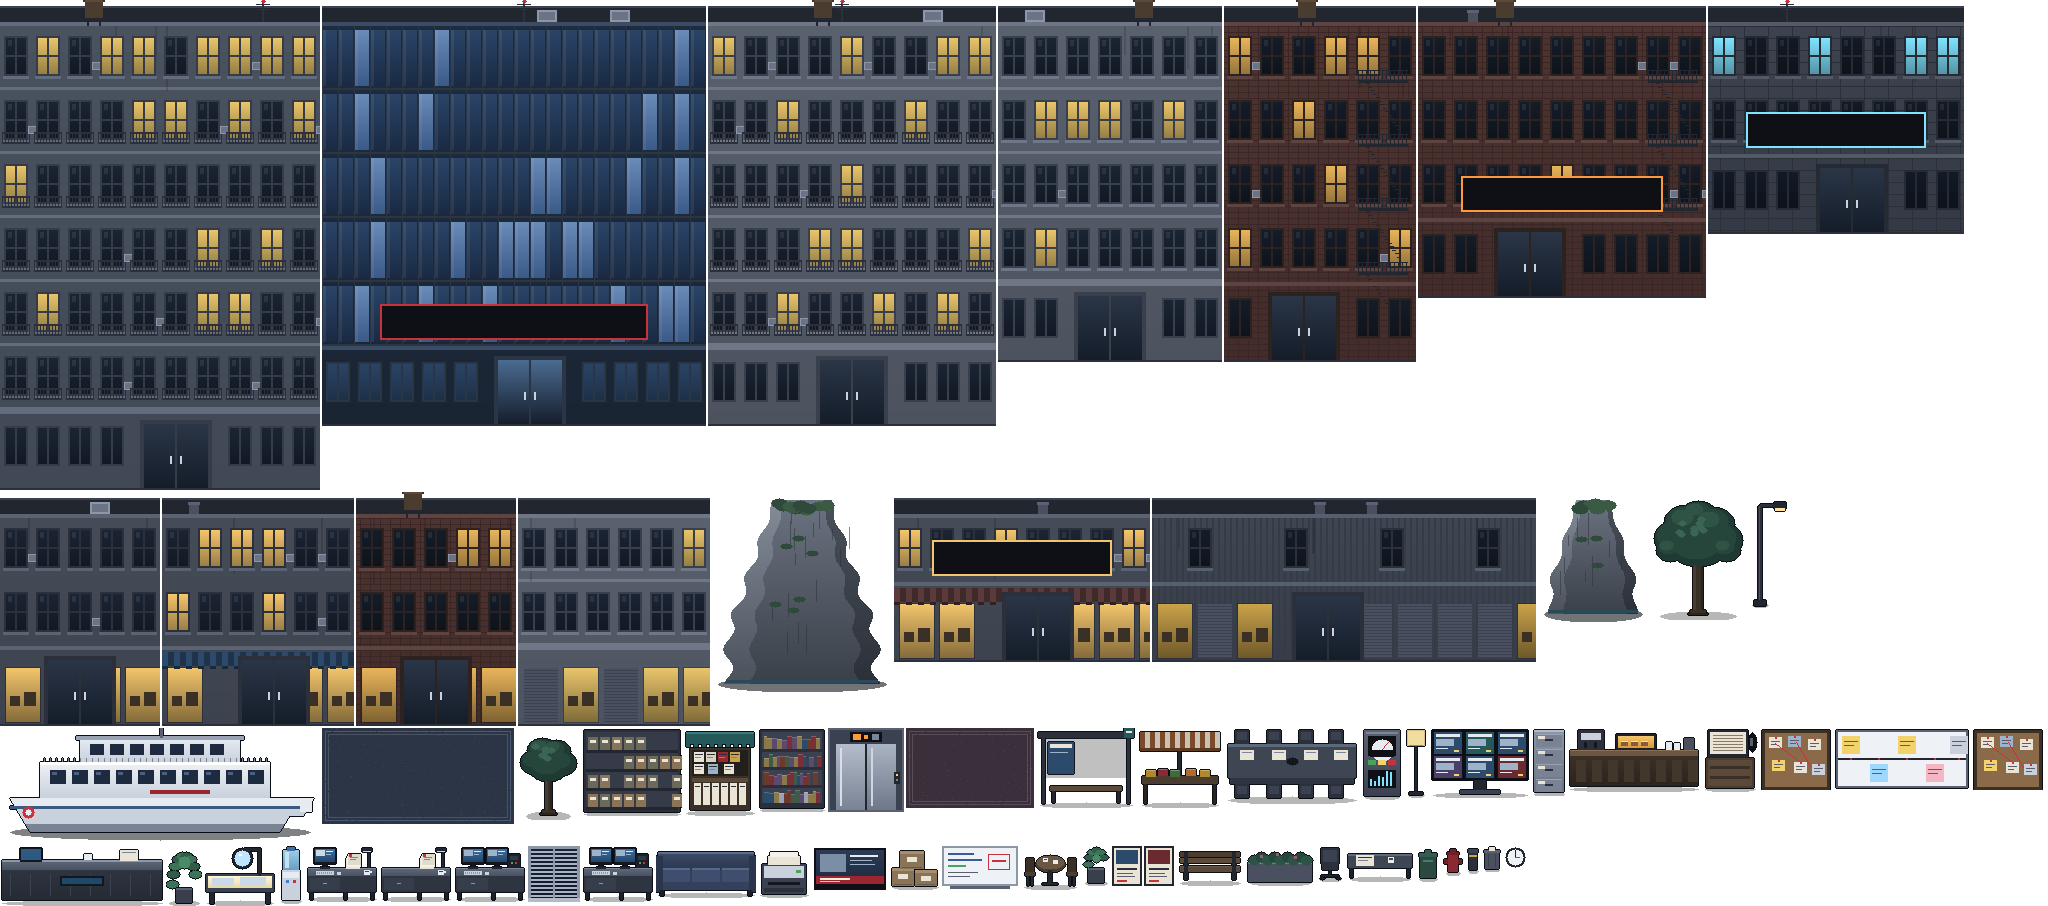
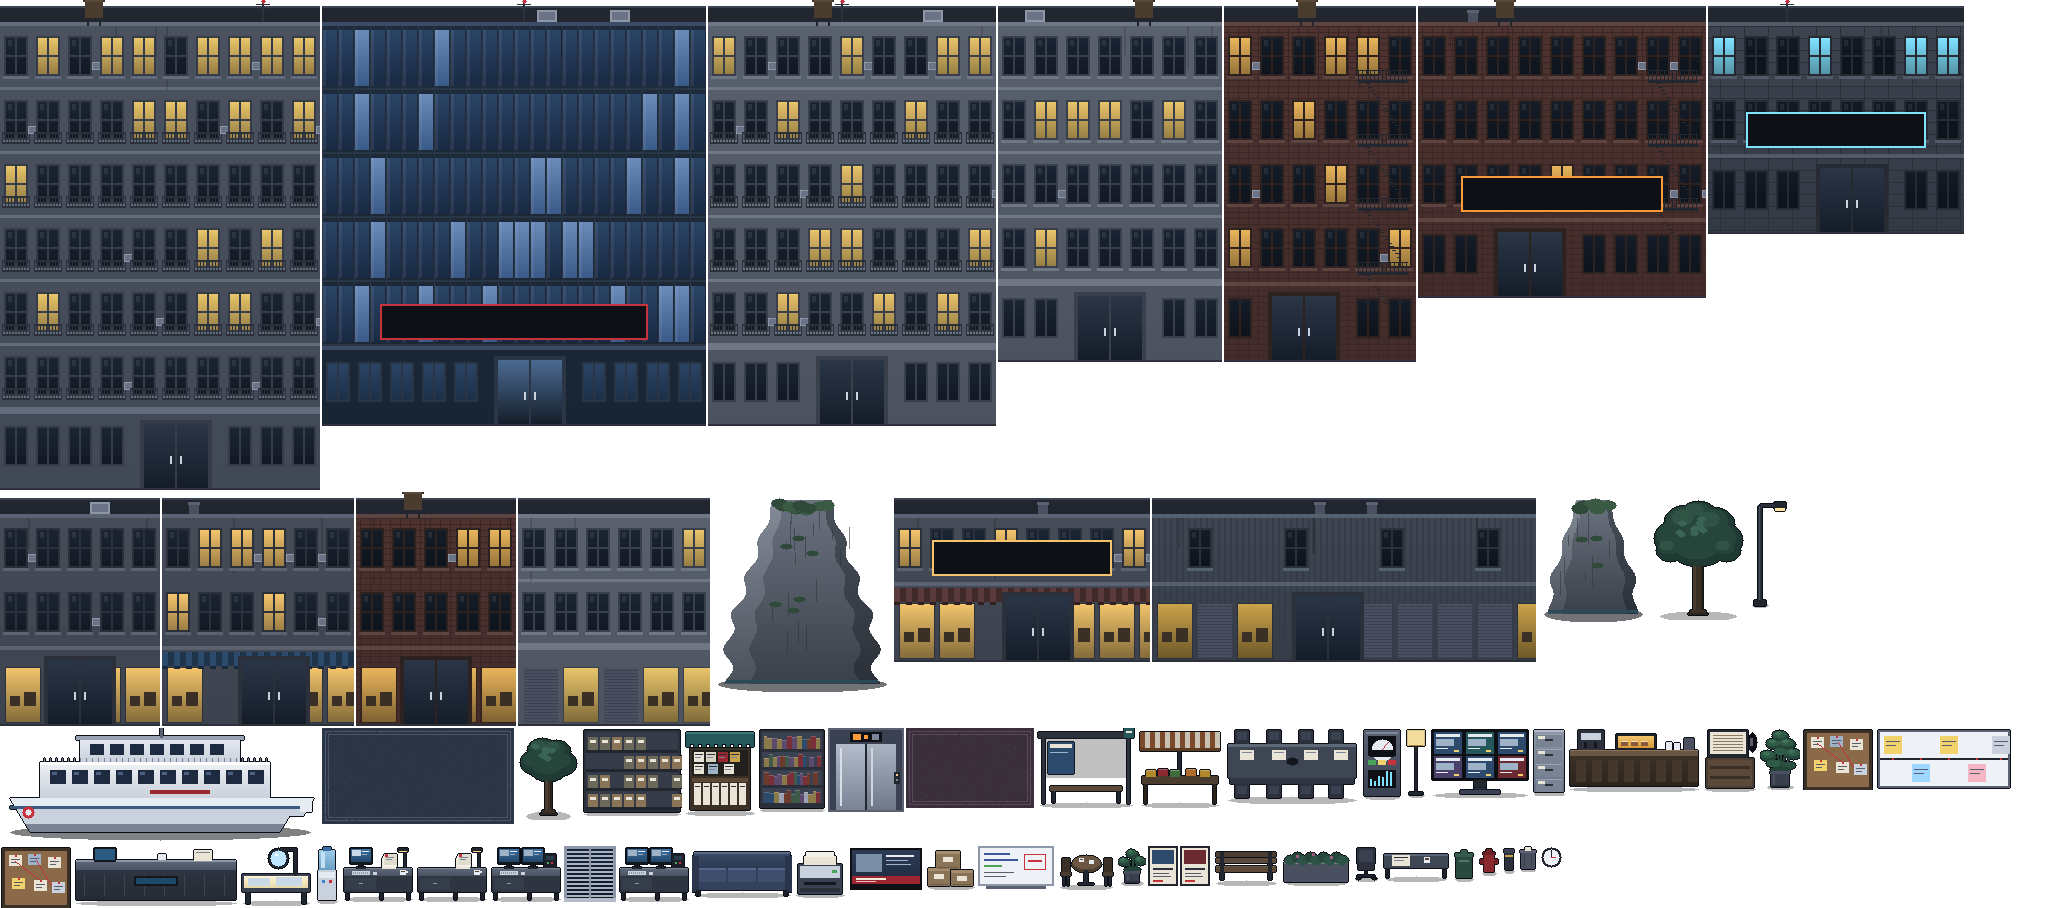
Replace points with skill badges; redraw potted plants
Each closed case (room) awards a skill badge with one line on what it teaches (rooms[].badge),
derived from the existing done flags so old saves get them. The HUD shows badges and cases closed
(n/6); the notebook and results screen show the badge shelf. Points, ranks and hint penalties are
gone. Potted plants now grow out of the pot with stems and dense leaves.

diff --git a/game/js/story.js b/game/js/story.js
@@ -2,7 +2,7 @@
 import { data, t, fill, questById, evidenceById, sceneById, npcById, sourceById, shortCite } from './data.js';
 import { state, questState, saveProgress, setFlag, hasFlag, addEvidence, isQuestDone } from './state.js';
 import * as dlg from './dialogue.js';
-import { matchField, checkCards, questPoints, isUnlocked, isPlayable, roomStatus, bossStatus, nextQuestIn } from './grading.js';
+import { matchField, checkCards, isUnlocked, isPlayable, roomStatus, bossStatus, nextQuestIn } from './grading.js';
 import { exhibitFor, frameGrid, singleFrame } from './exhibits.js';
 import { normalize, containsPhrase } from './text.js';
 import { sfx } from './audio.js';
@@ -674,12 +674,19 @@ Object.assign(STEP_RUNNERS, {
   }
 });
 
-/** Hoàn thành nhiệm vụ: điểm, thẻ evidence, kết luận nhỏ, lời kết phòng. */
+/** Trao huy hiệu kỹ năng của một hồ sơ (phòng) khi khép lại. */
+async function awardBadge(roomId) {
+  const b = data.quests.rooms.find(r => r.id === roomId)?.badge;
+  if (!b) return;
+  sfx('unlock');
+  onChange();
+  toast(t('dialog.badge', { name: b.name, learned: '' }));
+  await dlg.say('system', t('dialog.badge', b));
+}
+
+/** Hoàn thành nhiệm vụ: thẻ evidence, kết luận nhỏ, lời kết phòng, huy hiệu khi khép hồ sơ. */
 async function completeQuest(q, qs, npc) {
-  const points = questPoints(qs);
   qs.status = 'done';
-  qs.points = points;
-  state.progress.score += points;
   (q.evidenceCards || []).forEach(addEvidence);
   saveProgress();
   onChange();
@@ -691,7 +698,6 @@ async function completeQuest(q, qs, npc) {
     toast(t('dialog.newCard', { fact: ev.fact, title: ev.title }));
     await dlg.say('system', t('dialog.newCard', { fact: ev.fact, title: ev.title }));
   }
-  await dlg.say('system', t('dialog.points', { n: points }));
   world?.emote('hero', '♪');
   const room = q.room;
   if (state.progress.tracked === q.id) track(nextQuestIn(room)?.id || null, true);
@@ -699,6 +705,7 @@ async function completeQuest(q, qs, npc) {
     setFlag(`done_${room}`);
     saveProgress();
     if (sceneById(`${room.toLowerCase()}_done`)) await playScene(`${room.toLowerCase()}_done`);
+    await awardBadge(room);
   }
   // Xong mọi hồ sơ bắt buộc: Kẻ Dệt Chuyện xuất hiện, mũi tên chỉ tới Phòng họp.
   if (bossStatus(state.progress.flags) === 'open' && !hasFlag('boss_announced')) {
@@ -833,15 +840,13 @@ export async function runBoss() {
           continue;
         }
         sfx('correct');
-        const pts = Math.max(5, data.quests.settings.scoring.bossPhase - 5 * p.boss.fails);
         p.boss.fails = 0;
         p.boss.phase = i + 1;
-        p.score += pts;
         saveProgress();
         onChange();
         bossBar(b.phases.length - i - 1, b.phases.length);
         await dlg.say('boss', ph.defeat, { mood: 'cracked' });
-        await dlg.say('system', `${ph.explain} ${t('dialog.points', { n: pts })}`);
+        await dlg.say('system', ph.explain);
         break;
       }
     }
@@ -856,6 +861,7 @@ export async function runBoss() {
     p.evidenceCards = p.evidenceCards.filter(id => !b.guessCards.includes(id));
     setFlag('boss_done');
     saveProgress();
+    await awardBadge('S9');
     won = true;
   });
   bossBar(null);

diff --git a/game/js/main.js b/game/js/main.js
@@ -8,7 +8,7 @@ import { initInput, on, releaseAll } from './input.js';
 import * as dlg from './dialogue.js';
 import * as backpack from './backpack.js';
 import { setOnChange, setOnEnding, track } from './story.js';
-import { nextQuestIn } from './grading.js';
+import { nextQuestIn, earnedBadges, caseProgress } from './grading.js';
 import { updateScore } from './hud.js';
 import { WorldScene } from './world.js';
 import { reader } from './tools.js';
@@ -244,11 +244,6 @@ function openSettings() {
 
 // ---------------------------------------------------------------- S10: kết quả
 
-/** Danh hiệu theo điểm (chỉ để chơi). */
-function rankFor(score) {
-  return data.quests.settings.titles.filter(x => score >= x.min).pop()?.title || '';
-}
-
 /** Màn kết quả sau khi thắng boss. */
 function showResults() {
   const r = data.quests.results;
@@ -256,11 +251,16 @@ function showResults() {
   $('results-title').textContent = r.title;
   const stats = $('results-stats');
   stats.innerHTML = '';
-  [[r.rank, rankFor(p.score)], [r.score, p.score], [r.cards, p.evidenceCards.length]].forEach(([k, v]) => {
+  const prog = caseProgress(p.flags);
+  [[r.closed, `${prog.done}/${prog.total}`], [r.cards, p.evidenceCards.length]].forEach(([k, v]) => {
     const span = el('span', null, `${k}: `);
     span.append(el('strong', null, String(v)));
     stats.append(span);
   });
+  // Bộ huy hiệu kỹ năng (thay cho điểm và danh hiệu)
+  const shelf = el('div', 'badge-shelf');
+  earnedBadges(p.flags).forEach(b => { const d = el('div', 'badge'); d.append(el('strong', null, `🏅 ${b.badge.name}`), el('span', null, b.badge.learned)); shelf.append(d); });
+  stats.append(el('h2', null, r.badges), shelf);
   $('results-verified-title').textContent = `✓ ${r.verifiedTitle}`;
   $('results-unsure-title').textContent = `? ${r.unsureTitle}`;
   const fill = (id, items) => { const ul = $(id); ul.innerHTML = ''; items.forEach(x => ul.append(el('li', null, x))); };

diff --git a/game/js/backpack.js b/game/js/backpack.js
@@ -1,7 +1,7 @@
 // Balo: khung dọc bên phải với Sổ tay, Nhiệm vụ + bản đồ nhỏ, Bảng ghim, Lịch sử trò chuyện theo NPC.
 import { data, t, evidenceById, sourceById, shortCite, citeLine, npcById, questById } from './data.js';
 import { state, clearAllStorage, isQuestDone } from './state.js';
-import { questStatus, nextQuestIn, isUnlocked, bossStatus } from './grading.js';
+import { questStatus, nextQuestIn, isUnlocked, bossStatus, earnedBadges } from './grading.js';
 import { objective, track, giverOf } from './story.js';
 import { currentRunByNpc, exportLog } from './history.js';
 import { heroTitle } from './dialogue.js';
@@ -74,8 +74,14 @@ export function evidenceCard(ev) {
   return card;
 }
 
-/** Sổ tay: câu hỏi xác minh + thẻ evidence. */
+/** Sổ tay: huy hiệu kỹ năng, câu hỏi xác minh, thẻ evidence, ghi chép từ báo. */
 function notebook() {
+  els.body.append(el('h3', null, t('backpack.badges')));
+  const badges = earnedBadges(state.progress?.flags || []);
+  if (!badges.length) els.body.append(el('p', 'muted', t('backpack.noBadges')));
+  const shelf = el('div', 'badge-shelf');
+  badges.forEach(r => { const d = el('div', 'badge'); d.append(el('strong', null, `🏅 ${r.badge.name}`), el('span', null, r.badge.learned)); shelf.append(d); });
+  els.body.append(shelf);
   els.body.append(el('h3', null, t('backpack.questions')));
   const ol = el('ol');
   data.quests.verificationQuestions.forEach(q => ol.append(el('li', null, q)));

diff --git a/game/js/grading.js b/game/js/grading.js
@@ -29,12 +29,15 @@ export function checkCards(quest, picked) {
   return { status, wrong, missing };
 }
 
-/** Điểm khi hoàn thành: trừ theo gợi ý và số lần sai, giới hạn khi xem hướng dẫn. */
-export function questPoints(qs) {
-  const sc = data.quests.settings.scoring;
-  let points = Math.max(sc.minAfterHints, sc.firstTry - sc.hintPenaltyPerLevel * qs.hints - 2 * qs.fails);
-  if (qs.walkthrough) points = Math.min(points, sc.partial);
-  return points;
+/** Huy hiệu kỹ năng đã nhận: mỗi hồ sơ (phòng) khép lại trao một huy hiệu; Phòng họp tính khi thắng boss. */
+export function earnedBadges(flags = []) {
+  return data.quests.rooms.filter(r => r.badge && flags.includes(r.boss ? 'boss_done' : `done_${r.id}`));
+}
+
+/** Tiến độ: số hồ sơ bắt buộc đã khép / tổng (không tính hồ sơ tùy chọn, Phòng họp). */
+export function caseProgress(flags = []) {
+  const req = data.quests.rooms.filter(r => !r.optional && !r.boss);
+  return { done: req.filter(r => flags.includes(`done_${r.id}`)).length, total: req.length };
 }
 
 /**

diff --git a/game/js/hud.js b/game/js/hud.js
@@ -1,15 +1,18 @@
-// Thanh trên: vị trí hiện tại và điểm.
+// Thanh trên: vị trí hiện tại và tiến độ (huy hiệu, hồ sơ đã khép).
 import { t } from './data.js';
 import { state } from './state.js';
+import { earnedBadges, caseProgress } from './grading.js';
 
 /** Hiện tên khu vực đang đứng. */
 export function setPlace(text) {
   document.getElementById('hud-place').textContent = text;
 }
 
-/** Cập nhật điểm. */
+/** Cập nhật dòng tiến độ: số huy hiệu và số hồ sơ đã khép (thay cho điểm). */
 export function updateScore() {
-  document.getElementById('hud-score').textContent = state.progress ? `${t('score')}: ${state.progress.score}` : '';
+  const flags = state.progress?.flags || [];
+  document.getElementById('hud-score').textContent = state.progress
+    ? t('progress', { badges: earnedBadges(flags).length, ...caseProgress(flags) }) : '';
 }
 
 /** Dòng "đang theo dõi": người giao hồ sơ và nơi gặp. on = có hồ sơ đang theo dõi. */

diff --git a/game/css/styles.css b/game/css/styles.css
@@ -455,3 +455,9 @@ button.frame:hover { border-color: var(--grey); }
 .timeline-board strong { color: var(--straw); }
 .note-line { border-left: 4px solid var(--teal); padding-left: 8px; margin: 4px 0; }
 .note-line .cite { display: block; }
+
+/* ---------- Huy hiệu kỹ năng (thay cho điểm) ---------- */
+.badge-shelf { display: grid; grid-template-columns: repeat(auto-fill, minmax(200px, 1fr)); gap: 8px; margin: 6px 0; }
+.badge { display: flex; flex-direction: column; gap: 2px; background: rgb(255 200 87 / 0.1); border: 2px solid var(--straw); padding: 6px 8px; }
+.badge strong { color: var(--straw); font-weight: normal; }
+.badge span { font-size: 0.85em; color: var(--paper); }

diff --git a/game/js/state.js b/game/js/state.js
@@ -53,8 +53,7 @@ function freshProgress(heroName, heroLook = 'm') {
     evidenceCards: [],
     sourcesOpened: [],
     pos: null,
-    tracked: null,
-    score: 0
+    tracked: null
   };
 }
 

diff --git a/CLAUDE.md b/CLAUDE.md
@@ -14,7 +14,7 @@ Game pixel-art HTML/CSS/JS (không backend) cho bài tập mục 08, môn Thẩm
 
 ## Quy tắc không được vi phạm
 1. Chỉ dùng sự thật F1–F16 trong tài liệu 02; không bịa số liệu. Số 49 người/10 được cứu có cờ `verifyBeforeRelease`: đối chiếu nguồn chính thức trước khi phát hành.
-2. Điểm game chỉ để chơi, không phải bằng chứng thật/giả. Detector AI (Hive) chỉ là bằng chứng bổ trợ.
+2. Không còn điểm số: mỗi hồ sơ khép lại trao một huy hiệu kỹ năng (`quests.json → rooms[].badge`); huy hiệu chỉ để chơi, không phải bằng chứng thật/giả. Detector AI (Hive) chỉ là bằng chứng bổ trợ.
 3. Mọi tình huống/NPC bịa gắn nhãn GIẢ LẬP. NPC đều hư cấu, không dùng tên người/ca sĩ thật.
 4. Nhân đạo: không ảnh nạn nhân/trẻ em; ảnh giả chỉ là mô phỏng pixel trừu tượng gắn "ẢNH GIẢ"; có cảnh báo nội dung khi bắt đầu và nút "Ẩn hình ảnh nhạy cảm".
 5. Không doxxing, không kết luận động cơ tiền bạc/danh tính khi chưa có dữ liệu (F13). Không tư vấn pháp lý.

diff --git a/QUYẾT ĐỊNH ĐÃ CHỐT.md b/QUYẾT ĐỊNH ĐÃ CHỐT.md
@@ -129,3 +129,9 @@
 
 **Kết quả đợt 5:** đã làm đủ 7 bước (commit 3918e6d → bước cuối). Chỉ 4 tòa vào được (Báo Thanh Niên, Tin Vịnh, Phòng xác minh, Cà phê Gió Biển) có biển hiệu; tòa trang trí không có biển. Nhạc ~53 MB (8 file mp3).
 
+
+## Chốt ngày 29/10/2026 (đợt 6)
+
+| Mục | Quyết định |
+|---|---|
+| Điểm số | Bỏ điểm và danh hiệu theo điểm (thay mục "Điểm" của đợt 1). Mỗi hồ sơ khép lại trao một **huy hiệu kỹ năng** kèm câu tóm tắt điều đã học; thanh trên hiện số huy hiệu và "Hồ sơ đã khép n/6"; gợi ý, hướng dẫn không bị trừ gì. Màn kết quả hiện bộ huy hiệu |
